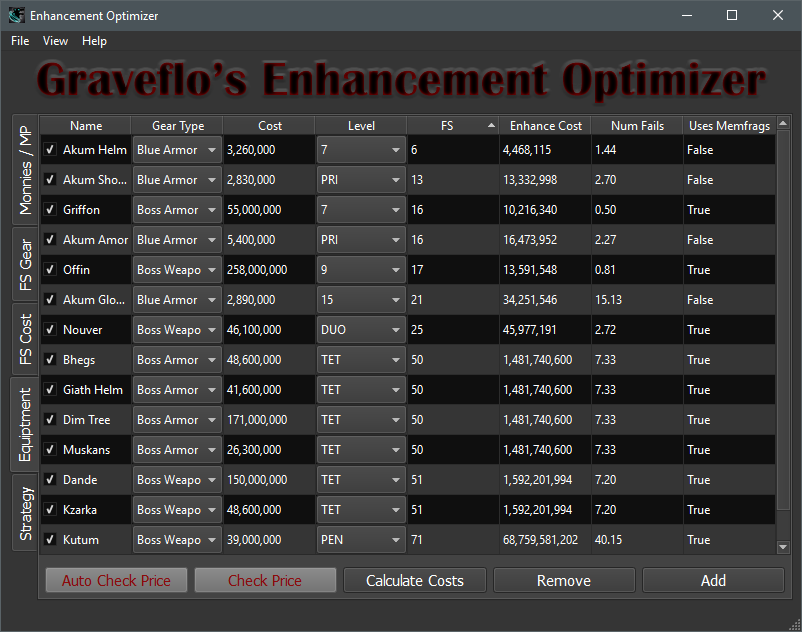
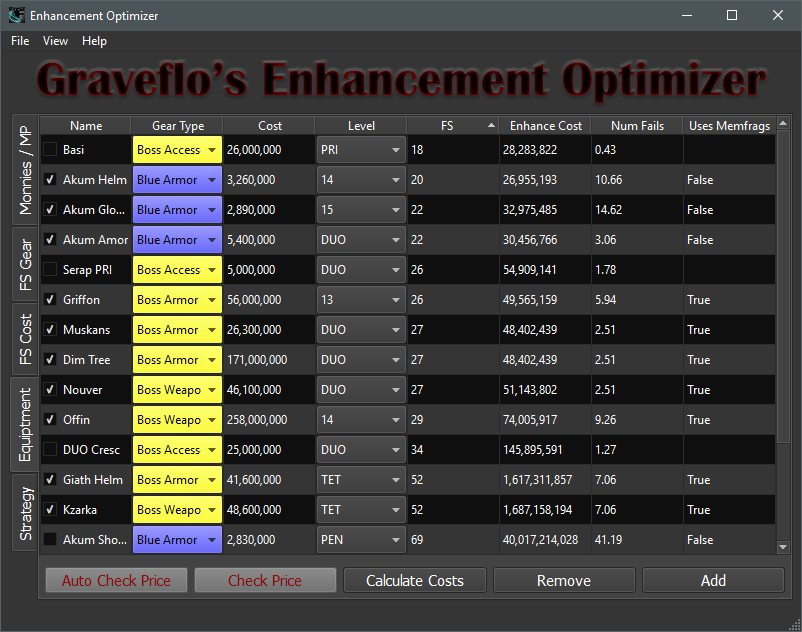
- Fixing green armor / weapons

diff --git a/common.py b/common.py
@@ -180,7 +180,7 @@ def dec_enhance_lvl(enhance):
 
 
 class Gear(object):
-    def __init__(self, item_cost=None, enhance_lvl=None, gear_type=None, name=None):
+    def __init__(self, item_cost=None, enhance_lvl=None, gear_type=None, name=None, num_fs=None):
         self.cost = item_cost
         self.enhance_lvl = enhance_lvl
         self.gear_type = gear_type
@@ -192,6 +192,7 @@ class Gear(object):
         self.repair_cost = None
         self.name = name
         self.sale_balance = 0
+        self.num_fs = num_fs
 
     def calc_repair_cost(self):
         raise NotImplemented()
@@ -211,6 +212,7 @@ class Gear(object):
         gear_type = self.gear_type
         if gear_type is not None:
             self.fs_vec = gear_type.map[gear_type.lvl_map[enhance_lvl]]
+            self.fs_vec[self.num_fs]
 
     def set_gear_type(self, gear_type):
         self.gear_type = gear_type
@@ -277,8 +279,8 @@ class Gear(object):
 class Classic_Gear(Gear):
 
     def __init__(self, item_cost=None, enhance_lvl=None, gear_type=None, name=None, fail_dura_cost=5.0,
-                 black_stone_cost=None, conc_black_stone_cost=None, mem_frag_cost=None):
-        super(Classic_Gear, self).__init__(item_cost, enhance_lvl, gear_type, name=name)
+                 black_stone_cost=None, conc_black_stone_cost=None, mem_frag_cost=None, num_fs=None):
+        super(Classic_Gear, self).__init__(item_cost, enhance_lvl, gear_type, name=name, num_fs=num_fs)
         self.black_stone_cost = black_stone_cost
         self.conc_black_stone_cost = conc_black_stone_cost
         self.fail_dura_cost = fail_dura_cost
@@ -386,6 +388,9 @@ class Classic_Gear(Gear):
     def enhance_cost(self, cum_fs):
         cum_fs = numpy.roll(cum_fs, 1)
         cum_fs[0] = 0
+        num_fs = self.num_fs
+        for glmap in self.gear_type.map:
+            glmap[num_fs]
         this_fail_map = numpy.array(self.gear_type.map)
 
         avg_num_attempts = numpy.divide(numpy.ones(this_fail_map.shape), this_fail_map)
@@ -456,7 +461,7 @@ class Classic_Gear(Gear):
         fs_upt = fs_count + fs_gain
         if len(cum_fs) <= fs_upt:
             fs_upt = len(cum_fs) - 1
-        cum_fail_gain = cum_fs[fs_upt] - cum_fs[min(fs_count+1,120)]
+        cum_fail_gain = cum_fs[fs_upt] - cum_fs[min(fs_count+1,len(cum_fs)-1)]
 
         try:
             int(enhance_lvl)
@@ -522,8 +527,8 @@ class Classic_Gear(Gear):
 
 class Smashable(Gear):
 
-    def __init__(self, item_cost=None, enhance_lvl=None, gear_type=None, name=None):
-        super(Smashable, self).__init__(item_cost, enhance_lvl, gear_type, name=name)
+    def __init__(self, item_cost=None, enhance_lvl=None, gear_type=None, name=None, num_fs=None):
+        super(Smashable, self).__init__(item_cost, enhance_lvl, gear_type, name=name, num_fs=num_fs)
 
     def calc_repair_cost(self):
         # failing will destroy current and require another purchase or be two bases
@@ -570,6 +575,9 @@ class Smashable(Gear):
     def enhance_cost(self, cum_fs):
         cum_fs = numpy.roll(cum_fs, 1)
         cum_fs[0] = 0
+        num_fs = self.num_fs
+        for glmap in self.gear_type.map:
+            glmap[num_fs]
         this_fail_map = numpy.array(self.gear_type.map)
         num_enhance_lvls = len(this_fail_map)
 

diff --git a/model.py b/model.py
@@ -14,7 +14,7 @@ class Invalid_FS_Parameters(Exception):
     pass
 
 class Enhance_model(object):
-    VERSION = "0.0.0.1"
+    VERSION = "0.0.0.2"
     """
     Do not catch exceptions here unless they are a disambiguation.
     """
@@ -26,6 +26,8 @@ class Enhance_model(object):
         self.cost_meme = common.MEMORY_FRAG_COST
         self.cost_cron = common.CRON_STONE_COST
         self.cost_cleanse = common.CLEANSE_COST
+
+        self.num_fs = 120
 
         self.current_path = None
 
@@ -109,10 +111,11 @@ class Enhance_model(object):
     def generate_gear_obj(self, item_cost=None, enhance_lvl=None, gear_type=None, name=None):
         str_gear_t = gear_type.name
         if str_gear_t.lower().find('accessor') > -1:
-            gear = Smashable(item_cost=item_cost, enhance_lvl=enhance_lvl, gear_type=gear_type, name=name)
+            gear = Smashable(item_cost=item_cost, enhance_lvl=enhance_lvl, gear_type=gear_type, name=name,
+                             num_fs=self.num_fs)
         else:
             gear = Classic_Gear(item_cost=item_cost, enhance_lvl=enhance_lvl, gear_type=gear_type, name=name,
-                                mem_frag_cost=self.cost_meme)
+                                mem_frag_cost=self.cost_meme, num_fs=self.num_fs)
             if str_gear_t.lower().find('weapon') > -1:
                 gear.black_stone_cost = self.cost_bs_w
                 gear.conc_black_stone_cost = self.cost_conc_w
@@ -160,7 +163,8 @@ class Enhance_model(object):
 
         last_rate = 0
         cum_probability = 1
-        for i in range(0, 121):
+        fs_num = self.num_fs+1
+        for i in range(0, fs_num):
             if i in fs_exceptions:
                 this_fs_item = fs_exceptions[i]
                 this_fs_cost = this_fs_item.simulate_FS(i, last_rate)
@@ -181,7 +185,7 @@ class Enhance_model(object):
 
         last_rate = 0
         if len(second_order) > 0:
-            for i in range(0, 121):
+            for i in range(0, fs_num):
                 this_fs_cost = fs_cost[i]
                 if i not in fs_exceptions:
                     trys = map(lambda x: x.simulate_FS_complex(i, last_rate, cum_fs_cost), second_order)
@@ -222,7 +226,9 @@ class Enhance_model(object):
         fs_cost = self.fs_cost
         enhance_me = self.enhance_me
 
-        zero_out = lambda x: x.enhance_lvl_cost(cum_fs_cost, fs_cost, total_cost=numpy.array([[0]*121]*len(x.gear_type.map)))
+        fs_len = self.num_fs+1
+
+        zero_out = lambda x: x.enhance_lvl_cost(cum_fs_cost, fs_cost, total_cost=numpy.array([[0]*fs_len]*len(x.gear_type.map)))
         balance_vec_fser = map(zero_out, self.fail_stackers)
         balance_vec_enh = map(lambda x: x.enhance_lvl_cost(cum_fs_cost, fs_cost), enhance_me)
 
@@ -270,7 +276,8 @@ class Enhance_model(object):
             'r_fail_stackers': r_fail_stackers,
             'r_enhance_me': r_enhance_me,
             'fail_stackers_count': fail_stackers_count,
-            '_version': Enhance_model.VERSION
+            '_version': Enhance_model.VERSION,
+            'num_fs':self.num_fs
         }
 
     def __setstate__(self, json_obj):

diff --git a/FrmMain.py b/FrmMain.py
@@ -6,7 +6,6 @@
 # TODO: Max number of uses for failstacking item (maybe only in strat mode)
 # TODO: Make graphs and menu items work
 # TODO: Ability to input custom failstack lists
-# TODO: Need non-dura green armor stats
 # TODO: Dual objective vs cost minimze on strat window
 # TODO: Fail stacks are over prioritized at high levels (real priority is enhancement chance increase not cost) see above
 # TODO: Upgrade/Downgrade item with context menu
